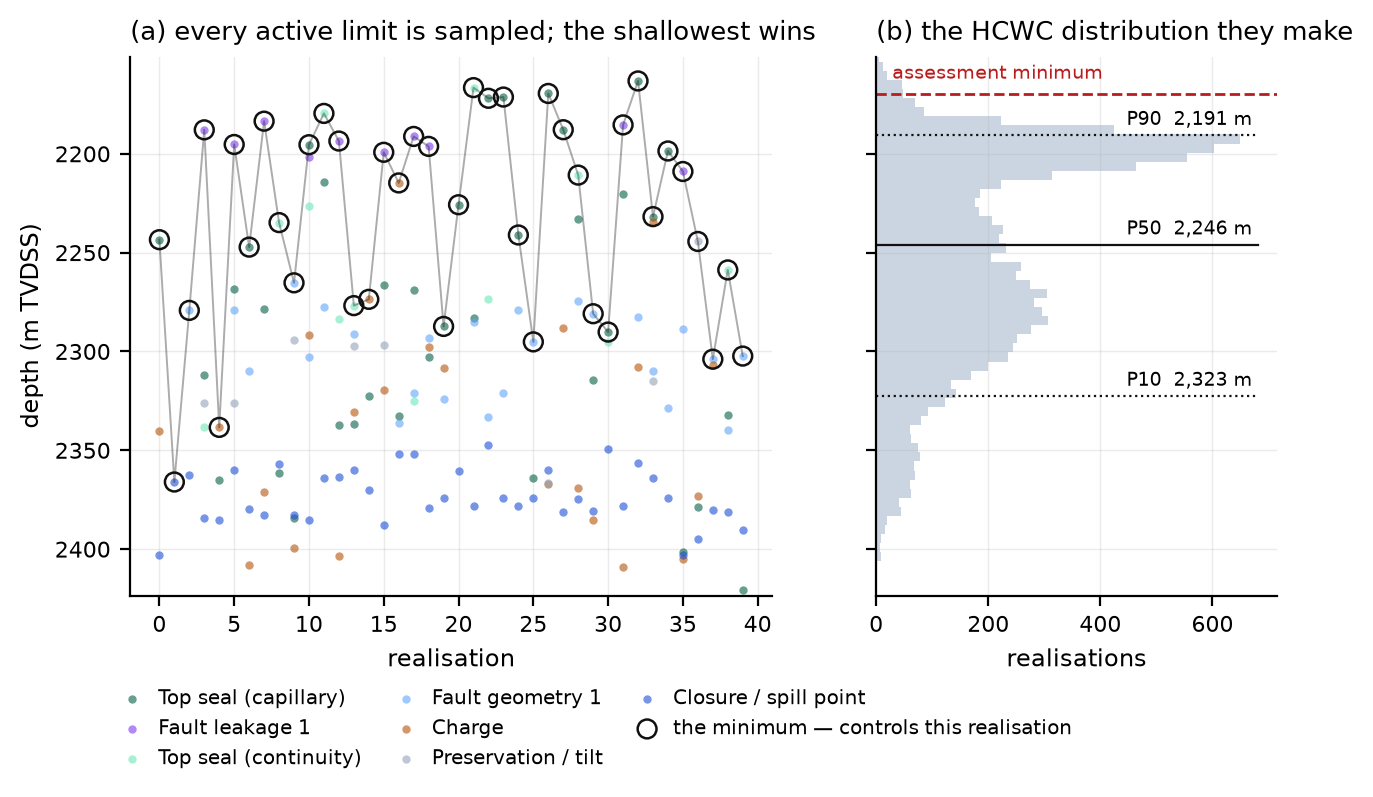
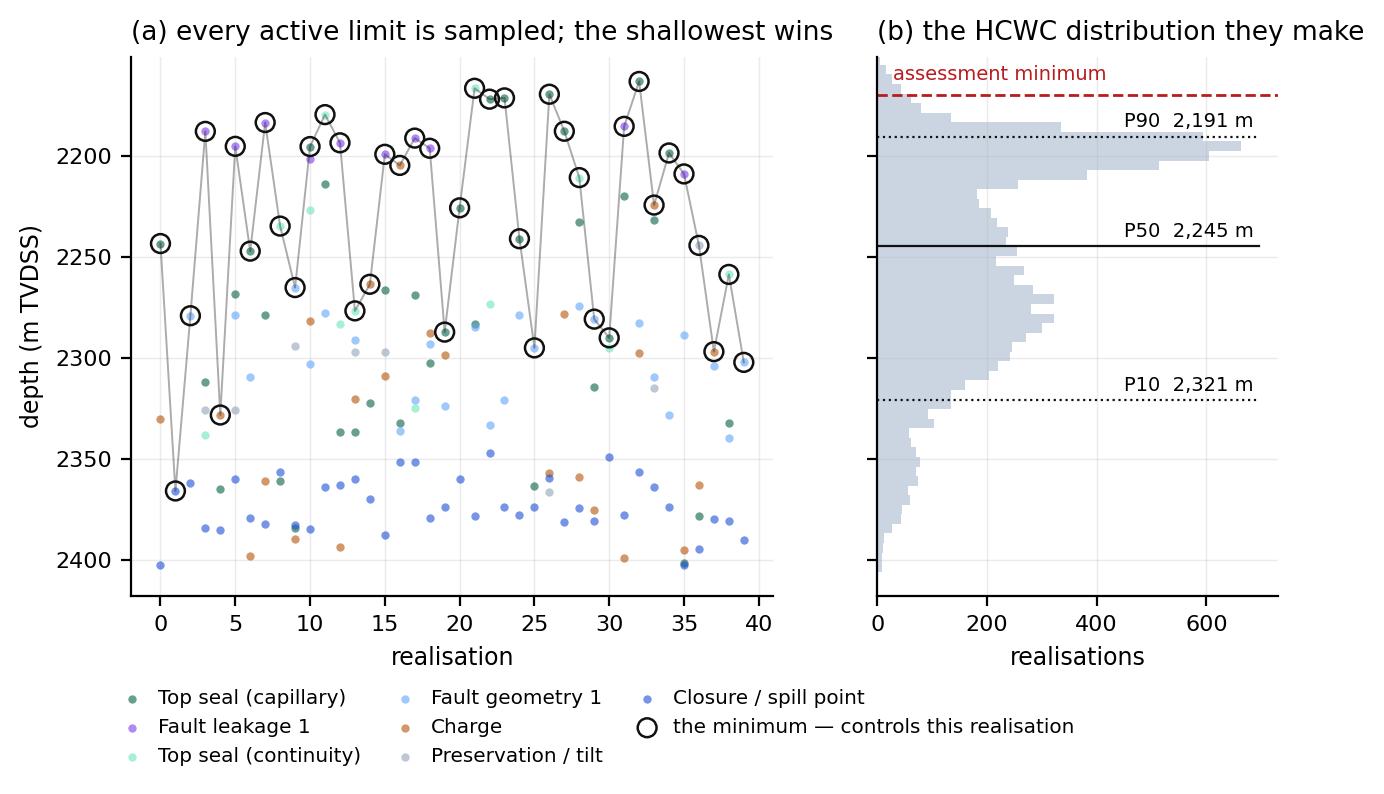
The paper's numbers are re-measured after the charge-apex and percentile corrections
Audit P2-2 moved the charge-limited contacts 10 m shallower and P3-4 changed the percentile
estimator, so the worked prospect's percentiles, the controlling shares, the survival-curve
readings and every DHI table drifted from what the engine now produces. All five figures are
regenerated and every quoted number re-measured on the default prospect; the claims are
unchanged.

diff --git a/docs/ARTICLE.md b/docs/ARTICLE.md
@@ -33,8 +33,8 @@ controlling-mechanism bookkeeping intact. The amplitude character updates the ch
 elements worked and the picked geometry updates the column given that they did, so the prospect
 chance at a threshold is the product of the two. On the worked prospect a mild anomaly raises
 prospect POS from 40.3 % to 46.6 % and a strong one to 82.3 %, while the picked contact narrows
-the P90–P10 spread of the contact from 132 m to 23 m; the effective sample size behind the update
-— 10,000 realisations reduced to 3,758, or to 1,346 for a strongly stated interpretation —
+the P90–P10 spread of the contact from 130 m to 22 m; the effective sample size behind the update
+— 10,000 realisations reduced to 3,800, or to 1,368 for a strongly stated interpretation —
 measures how far the seismic evidence has displaced the geology.
 
 An open-source implementation makes the workflow available for practical prospect evaluation
@@ -393,7 +393,7 @@ default, so a reader can reproduce them.
 > **Figure 1.** (a) Forty consecutive realisations. Each coloured dot is one limit's sampled depth
 > in that realisation; the ringed dot is the minimum, which controls it. Note that no limit wins
 > consistently, and that the winner changes from realisation to realisation as the sampled depths
-> reorder. (b) The HCWC distribution those minima make: P90 2,190 m, P50 2,247 m, P10 2,324 m. The
+> reorder. (b) The HCWC distribution those minima make: P90 2,191 m, P50 2,246 m, P10 2,322 m. The
 > shape is an output; nothing about it was elicited. Panel (a) is clipped for legibility — a few
 > capillary capacities sample well below the plotted range.
 
@@ -404,24 +404,24 @@ Reading the geological result:
 | $P(G)$, element product | 0.408 |
 | $F(h_\min)$ at 120 m | 0.986 |
 | **Prospect POS** | **40.3 %** |
-| HCWC P90 / P50 / P10 | 2,190 / 2,247 / 2,324 m |
-| P(filled to spill) | 3.4 % |
+| HCWC P90 / P50 / P10 | 2,191 / 2,246 / 2,322 m |
+| P(filled to spill) | 3.1 % |
 
 The fill-to-spill probability is a derived number, not an input: it is the share of realisations in
 which the spill point provided the minimum.
 
 ![Controlling mechanism](figures/fig2_controlling_mechanism.png)
 
-> **Figure 2.** (a) The controlling-limit histogram: top-seal capillary capacity controls 33.3 % of
-> realisations, fault leakage 23.1 %, seal continuity 15.1 %, fault geometry 12.7 %, charge 7.7 %,
-> preservation 4.6 % and spill 3.4 %. (b) The same information as a function of depth. The
+> **Figure 2.** (a) The controlling-limit histogram: top-seal capillary capacity controls 32.0 % of
+> realisations, fault leakage 23.0 %, seal continuity 15.6 %, fault geometry 12.4 %, charge 9.4 %,
+> preservation 4.5 % and spill 3.1 %. (b) The same information as a function of depth. The
 > controlling share is **not constant down the structure**: shallow contacts are almost entirely
 > seal-controlled, while deeper ones pass to fault geometry and finally to spill. This is the
 > diagnostic that a distribution alone cannot provide.
 
 The mechanism diagnostic changes what sensitivity analysis is for. The conventional question is
 *which input is uncertain?* The useful question is *which uncertain mechanism actually controls the
-result?* Here, refining the preservation model would move very little, because it controls 4.6 % of
+result?* Here, refining the preservation model would move very little, because it controls 4.5 % of
 realisations; refining the seal-capacity elicitation would move a great deal.
 
 At the same time, a mechanism with a small overall share is not necessarily unimportant: Figure 2b
@@ -433,7 +433,7 @@ ones that carry the volume. Both readings come from the same array.
 > **Figure 3.** One curve, read in three places. The solid curve is $F(h)$, conditional on the
 > elements working; the dashed curve is $P(G)F(h)$, the prospect POS. At the 120 m assessment
 > minimum, $F = 98.6\%$ and POS $= 40.3\%$. At the DHI-indicated column,
-> $F = 48.1\%$ and POS $= 19.6\%$. Because $F$ decreases,
+> $F = 47.3\%$ and POS $= 19.3\%$. Because $F$ decreases,
 > $F(h_\min) \geq F(h_\text{DHI})$ always — the two numbers were
 > never competing, and quoting one without stating the $h$ it was read at is the error the
 > construction removes.
@@ -503,19 +503,19 @@ prospect, with the pick deliberately vague ($\sigma = 200$ m) so that geometry s
 
 | | prospect POS | contact P50 | P90–P10 | ESS |
 |---|---:|---:|---:|---:|
-| geological prior | 40.3 % | 2,247 m | 132 m | 10,000 |
-| character only — strength 40, $\sigma$ 200 m | **81.5 %** | **2,247 m** | 130 m | 9,994 |
-| geometry only — neutral character, $\sigma$ 5 m | 40.7 % | 2,250 m | **23 m** | 1,346 |
-| both — strength 40, $\sigma$ 5 m | 82.3 % | 2,250 m | **23 m** | 1,346 |
+| geological prior | 40.3 % | 2,246 m | 130 m | 10,000 |
+| character only — strength 40, $\sigma$ 200 m | **81.4 %** | **2,246 m** | 128 m | 9,994 |
+| geometry only — neutral character, $\sigma$ 5 m | 40.7 % | 2,250 m | **22 m** | 1,368 |
+| both — strength 40, $\sigma$ 5 m | 82.3 % | 2,250 m | **22 m** | 1,368 |
 
-**Character moves the chance and leaves the depth alone**: POS rises from 40.3 % to 81.5 % while
+**Character moves the chance and leaves the depth alone**: POS rises from 40.3 % to 81.4 % while
 the P50 contact does not move, the spread is unchanged, and the effective sample size stays at
 essentially all 10,000 realisations — nothing has been reweighted. The small residual comes from
 the 200 m pick, which is not quite uninformative.
 
 **Geometry reshapes the distribution.** On this prospect it barely moves the median, because the
-pick at 2,250 m happens to sit almost exactly on the geological P50 of 2,247 m; there is nothing
-for it to shift. What it does instead is *narrow* — 132 m to 23 m — at the cost of four fifths of
+pick at 2,250 m happens to sit almost exactly on the geological P50 of 2,246 m; there is nothing
+for it to shift. What it does instead is *narrow* — 130 m to 22 m — at the cost of four fifths of
 the effective sample. It moves the chance by less than half a point, and that too is a property of
 the example: the assessment minimum is 120 m of column and the pick sits 200 m below the apex, so
 almost every realisation clears the minimum before and after. On a prospect whose minimum fell
@@ -615,10 +615,10 @@ entire likelihood within $G$, and its average over the geological columns is the
 ratio that lowers the chance. Section 12 is that case.
 
 **When the detection threshold falls inside the range of columns the pick favours.** The shipped
-prospect has a P50 column of 196 m against a detection midpoint of 25 m, so every column under
+prospect has a P50 column of 195 m against a detection midpoint of 25 m, so every column under
 discussion is comfortably detectable and the function has nothing to discriminate. Move that
 midpoint to 250 m — a thin, poorly imaged reservoir where only an unusually tall column would show
-— and it becomes the dominant term, worth up to 27 points of exceedance. The direction is the one
+— and it becomes the dominant term, worth up to 28 points of exceedance. The direction is the one
 worth holding on to: if only a tall column could have been seen, then having seen one is evidence
 that the column is tall, so accounting for detectability *raises* the answer rather than
 discounting it.
@@ -641,7 +641,7 @@ multiplicative correction to POS. It changes the *shape* of the column-height di
 > observations at a picked contact of 2,250 m and for an absent anomaly. The curves do not merely lift: each develops a step
 > at the pick, because the evidence moves probability toward the depths the interpreted event
 > supports and away from those it argues against. (b) The effective sample size behind each update.
-> A strongly stated interpretation leaves 1,346 of 10,000 realisations carrying the answer.
+> A strongly stated interpretation leaves 1,368 of 10,000 realisations carrying the answer.
 
 Read as depth-dependent risk, on the worked prospect with a mild anomaly, the curve being
 $P(G \mid \text{character}) \times F(h)$ in both columns:
@@ -649,9 +649,9 @@ $P(G \mid \text{character}) \times F(h)$ in both columns:
 | chance the contact reaches | geological | given the DHI |
 |---|---:|---:|
 | 2,150 m | 40.7 % | 46.7 % |
-| 2,200 m | 31.5 % | **44.5 %** |
-| 2,250 m | 19.6 % | 24.8 % |
-| 2,300 m | 7.7 % | **1.8 %** |
+| 2,200 m | 31.4 % | **44.6 %** |
+| 2,250 m | 19.3 % | 24.3 % |
+| 2,300 m | 7.4 % | **1.7 %** |
 
 The chance at 2,200 m rises by thirteen points while the chance at 2,300 m falls by six. **A
 single POS multiplier cannot express that**, and neither can a scenario switch: both would move
@@ -659,8 +659,8 @@ $P(\text{success})$ without specifying how $P(H \geq h)$ changes as a function o
 defined on column height does both, and this is the direct connection between seismic
 interpretation and depth-dependent prospect risk.
 
-The distribution also **narrows** — from a 132 m P90–P10 spread to 56 m at the mild setting and
-23 m at the strong one. Evidence is supposed to sharpen an estimate as well as move it, and a
+The distribution also **narrows** — from a 130 m P90–P10 spread to 55 m at the mild setting and
+22 m at the strong one. Evidence is supposed to sharpen an estimate as well as move it, and a
 scenario switch, which mixes two branches, can only broaden.
 
 ---
@@ -678,7 +678,7 @@ are hydrocarbons. On the worked prospect the redistribution is nil: with a detec
 25 m every column above the 120 m assessment minimum sits on the function's ceiling, and the
 weights are flat to within rounding. Move the midpoint to 150 m, a reservoir near the limit of
 resolution, and absence does what the formulation promises within $G$: the median contact
-shallows from 2,247 m to 2,197 m and the effective sample falls to 5,233.
+shallows from 2,246 m to 2,197 m and the effective sample falls to 5,248.
 
 **Absence on the chance needs one more number.** Monigle *et al.* (2025) treat an absent anomaly
 as a negative line of evidence within ExxonMobil's integrated chance-of-success framework, and
@@ -732,14 +732,14 @@ which reports how many of the original realisations the posterior effectively re
 
 | interpretation | prospect POS | contact P50 | P90–P10 | ESS |
 |---|---:|---:|---:|---:|
-| geological prior | 40.3 % | 2,247 m | 132 m | 10,000 |
-| mild — strength 5, $\sigma$ 15 m | 46.6 % | 2,252 m | 56 m | 3,758 |
-| moderate — strength 20, $\sigma$ 10 m | 64.2 % | 2,251 m | 40 m | 2,589 |
-| strong — strength 40, $\sigma$ 5 m | 82.3 % | 2,250 m | 23 m | **1,346** |
-| absent where one was expected, $f = 0.5$ | 11.0 % | 2,247 m | 132 m | 9,995 |
+| geological prior | 40.3 % | 2,246 m | 130 m | 10,000 |
+| mild — strength 5, $\sigma$ 15 m | 46.6 % | 2,251 m | 55 m | 3,800 |
+| moderate — strength 20, $\sigma$ 10 m | 64.2 % | 2,250 m | 39 m | 2,623 |
+| strong — strength 40, $\sigma$ 5 m | 82.3 % | 2,250 m | 22 m | **1,368** |
+| absent where one was expected, $f = 0.5$ | 11.0 % | 2,246 m | 130 m | 9,966 |
 
 A low ESS does not mean the interpretation is wrong. It means the posterior depends heavily on it.
-At 1,346 the answer rests on under a seventh of the geological realisations, and should be
+At 1,368 the answer rests on under a seventh of the geological realisations, and should be
 presented as such. The number belongs beside the result, not in an appendix.
 
 The ESS reports the geometry channel only. The character channel updates a single number and
@@ -778,22 +778,22 @@ deeper:
 
 | picked contact | prospect POS | contact P50 | P90–P10 | ESS |
 |---|---:|---:|---:|---:|
-| 2,250 m — well supported | 82.3 % | 2,250 m | 23 m | 1,346 |
-| 2,300 m | 82.3 % | 2,299 m | 59 m | 1,342 |
-| 2,350 m | 82.0 % | 2,345 m | 155 m | 855 |
-| 2,400 m | 81.5 % | 2,260 m | 200 m | 1,876 |
-| 2,500 m — beyond all support | 81.4 % | **2,247 m** | 132 m | **10,000** |
+| 2,250 m — well supported | 82.3 % | 2,250 m | 22 m | 1,368 |
+| 2,300 m | 82.3 % | 2,299 m | 62 m | 1,325 |
+| 2,350 m | 82.0 % | 2,345 m | 156 m | 857 |
+| 2,400 m | 81.5 % | 2,258 m | 200 m | 1,889 |
+| 2,500 m — beyond all support | 81.4 % | **2,246 m** | 130 m | **10,000** |
 
 The contact follows the pick while the geological model supports it, then **detaches**. At 2,350 m
-the posterior median still follows, but the spread has opened from 23 m to 155 m and the
-effective sample has fallen to 855: the pick is being carried by a thinning tail of realisations.
+the posterior median still follows, but the spread has opened from 22 m to 156 m and the
+effective sample has fallen to 857: the pick is being carried by a thinning tail of realisations.
 At 2,400 m the median has fallen back toward the prior, and at 2,500 m it is the prior exactly
 with the effective sample size returned to 10,000 — the likelihood has become flat, so the
 reweighting does nothing. The model has concluded *that is probably not a contact* rather than
 *the contact is at 2,500 m*.
 
 Note that the ESS is **not monotone**: it falls as the evidence sharpens against the prior, then
-rises again as the floor takes over — 855 at 2,350 m, back to 10,000 at 2,500 m. That
+rises again as the floor takes over — 857 at 2,350 m, back to 10,000 at 2,500 m. That
 non-monotonicity is the tell, and it is why ESS should be read alongside the answer rather than as
 a quality score. Note also that POS stays at 81–82 % throughout, which is correct — the character
 channel still reports a bright anomaly, and a bright anomaly is evidence for hydrocarbons even when
